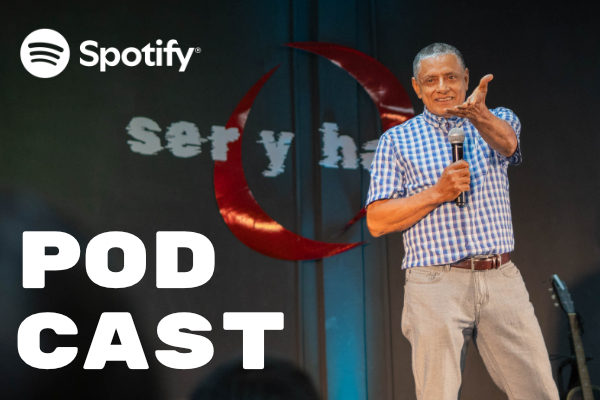
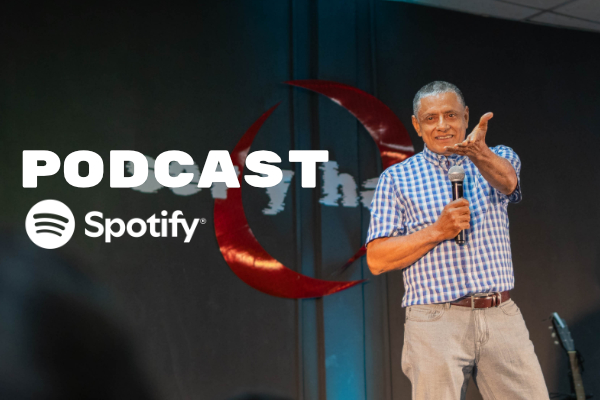
Correcciones y mejoras
# Animaciones
- Agregué fondos animados para la sección del header y del calendario.
- Otras correciones menores.

diff --git a/main.html b/main.html
@@ -57,7 +57,7 @@
             width: 100%;
             height: 0;
             overflow: hidden;
-            border-radius: 0.5rem;
+            /* Se eliminó border-radius: 0.5rem; para las esquinas afiladas del calendario incrustado */
         }
 
         .responsive-embed-container iframe {
@@ -82,20 +82,34 @@
         .text-button-shadow {
             text-shadow: 2px 2px 4px rgba(0, 0, 0, 0.7); /* Sombra más oscura y con blur */
         }
+
+        /* Estilos para el fondo de patrón animado */
+        .animated-pattern-bg {
+            /* SVG del icono de tu logo como patrón de fondo */
+            /* Apuntando al archivo SVG local, el efecto de "ladrillo" debe estar contenido en el SVG si es deseado */
+            background-image: url("images/pattern-logo.svg");
+            background-repeat: repeat;
+            background-size: 100px 100px; /* Tamaño más grande para la repetición del patrón, como se solicitó */
+            animation: movePattern 30s linear infinite; /* Animación de movimiento con una duración más lenta */
+        }
+
+        @keyframes movePattern {
+            0% {
+                background-position: 0 0;
+            }
+            100% {
+                background-position: 100px 100px; /* Mueve el patrón por el tamaño de la unidad del patrón para un loop diagonal perfecto */
+            }
+        }
     </style>
 </head>
 <body class="flex flex-col min-h-screen">
-    <!-- Contenedor principal del contenido -->
     <div id="main-content-wrapper" class="w-full transition-all duration-300 ease-in-out">
         <main class="flex-grow pt-0">
-            <!-- Sección Principal (Hero Section) -->
-            <section class="relative bg-gray-200 py-8 md:py-16">
+            <section class="relative bg-gray-200 py-8 md:py-16 animated-pattern-bg">
                 <div class="container mx-auto px-4 flex justify-center">
-                    <!-- Contenedor principal con borde blanco -->
                     <div class="bg-white rounded-lg shadow-xl overflow-hidden max-w-4xl w-full border-4 border-white">
-                        <!-- Contenedor de la Imagen de Fondo, Logo, Degradado, Botones y Texto "Amarás la diferencia" -->
                         <div class="relative w-full pb-[70%] md:pb-[39.0625%] overflow-hidden">
-                            <!-- Carrusel de Imágenes -->
                             <div id="carousel-images" class="absolute inset-0">
                                 <img src="images\header_fondo_1.jpg" class="carousel-image active absolute inset-0 w-full h-full object-cover" alt="Imagen 1 del Carrusel">
                                 <img src="images\header_fondo_2.jpg" class="carousel-image absolute inset-0 w-full h-full object-cover" alt="Imagen 2 del Carrusel">
@@ -103,27 +117,21 @@
                                 <img src="images\header_fondo_4.jpg" class="carousel-image absolute inset-0 w-full h-full object-cover" alt="Imagen 4 del Carrusel">
                             </div>
 
-                            <!-- Overlay de degradado sobre la imagen -->
                             <div class="absolute inset-0 bg-gradient-to-t from-[#424044] to-transparent"></div>
 
-                            <!-- Logo de IGC Comayagua con fondo blanco y cuadrado, con padding interno y pegado a la esquina -->
-                            <div class="absolute top-0 left-4 bg-white flex items-center justify-center p-4" style="width: 150px; height: 150px;">
+                            <div class="absolute top-0 left-4 bg-white flex items-center justify-center p-4 w-24 h-24 md:w-[150px] md:h-[150px]">
                                 <img src="images\logo1.svg" alt="Logo de IGC Comayagua" class="w-full h-full object-contain">
                             </div>
 
-                            <!-- Contenedor para los botones de navegación, en vertical pegados a la derecha -->
-                            <!-- Añadido z-index para asegurar que los botones estén por encima de otros elementos -->
                             <div class="absolute top-1/2 -translate-y-1/2 right-4 text-white flex flex-col items-end gap-2 md:gap-4 z-10">
-                                <!-- Estos botones tienen fondo negro al 10% de opacidad Y sombra en el texto -->
                                 <a href="#primeros-pasos" class="border border-white text-white rounded-lg hover:bg-white hover:text-gray-900 transition-colors duration-200 text-sm px-3 py-2 md:text-base md:px-6 md:py-2 shadow-md text-button-shadow bg-black bg-opacity-10">Primeros Pasos</a>
                                 <a href="#conferencias" class="border border-white text-white rounded-lg hover:bg-white hover:text-gray-900 transition-colors duration-200 text-sm px-3 py-2 md:text-base md:px-6 md:py-2 shadow-md text-button-shadow bg-black bg-opacity-10">Conferencias</a>
                                 <a href="#recursos" class="border border-white text-white rounded-lg hover:bg-white hover:text-gray-900 transition-colors duration-200 text-sm px-3 py-2 md:text-base md:px-6 md:py-2 shadow-md text-button-shadow bg-black bg-opacity-10">Recursos</a>
                                 <a href="#calendario" class="border border-white text-white rounded-lg hover:bg-white hover:text-gray-900 transition-colors duration-200 text-sm px-3 py-2 md:text-base md:px-6 md:py-2 shadow-md text-button-shadow bg-black bg-opacity-10">Calendario</a>
                             </div>
 
-                            <!-- Contenedor de Texto "Amarás la diferencia" - ahora dentro del área de la imagen, alineado a la izquierda -->
                             <div class="absolute bottom-4 left-4 w-full text-white pr-8 text-left">
-                                <h2 class="text-3xl md:text-5xl font-extrabold hero-main-heading-font leading-tight drop-shadow-lg">
+                                <h2 class="text-2xl md:text-5xl font-extrabold hero-main-heading-font leading-tight drop-shadow-lg">
                                     Amarás la<br>Diferencia
                                 </h2>
                             </div>
@@ -132,80 +140,65 @@
                 </div>
             </section>
 
-            <!-- Sección Primeros Pasos -->
             <section id="primeros-pasos" class="py-16 bg-white">
                 <div class="container mx-auto px-4 text-center max-w-5xl">
                     <h3 class="text-4xl font-bold text-gray-800 mb-12 section-title-font">Da tus primeros pasos</h3>
                     <div class="grid grid-cols-1 md:grid-cols-3 gap-8">
-                        <!-- Tarjeta 1: Soy Nuevo Aquí -->
                         <div class="p-6 bg-blue-50 rounded-lg shadow-lg flex flex-col items-center text-center border-4 border-white">
                             <i class="fas fa-church text-blue-600 text-5xl mb-4"></i>
                             <h4 class="text-2xl font-semibold text-gray-800 mb-3">Soy Nuevo Aquí</h4>
                             <p class="text-gray-600 mb-4">Descubre qué esperar en tu primera visita y cómo puedes conectar con nosotros.</p>
-                            <!-- Botón sin fondo negro transparente ni sombra en el texto -->
-                            <a href="#" class="text-blue-600 hover:underline font-medium">Más información &rarr;</a>
+                            <a href="#" class="text-blue-600 hover:underline font-medium">Más información →</a>
                         </div>
-                        <!-- Tarjeta 2: Encuentra un Grupo de Crecimiento -->
                         <div class="p-6 bg-green-50 rounded-lg shadow-lg flex flex-col items-center text-center border-4 border-white">
                             <i class="fas fa-handshake text-green-600 text-5xl mb-4"></i>
                             <h4 class="text-2xl font-semibold text-gray-800 mb-3">Encuentra un Grupo de Crecimiento</h4>
                             <p class="text-gray-600 mb-4">Encuentra una comunidad donde puedas crecer en tu fe y formar amistades.</p>
-                            <!-- Botón sin fondo negro transparente ni sombra en el texto -->
-                            <a href="https://forms.gle/2pQe1TpR1u5W111K7" class="text-blue-600 hover:underline font-medium">Encuentra un Grupo &rarr;</a>
+                            <a href="https://forms.gle/2pQe1TpR1u5W111K7" class="text-blue-600 hover:underline font-medium">Encuentra un Grupo →</a>
                         </div>
-                        <!-- Tarjeta 3: Lucas 10 -->
                         <div class="p-6 bg-purple-50 rounded-lg shadow-lg flex flex-col items-center text-center border-4 border-white">
                             <i class="fas fa-hand-holding-heart text-purple-600 text-5xl mb-4"></i>
                             <h4 class="text-2xl font-semibold text-gray-800 mb-3">Lucas 10</h4>
                             <p class="text-gray-600 mb-4">Ministerio de ayuda para personas en necesidad.</p>
-                            <!-- Botón sin fondo negro transparente ni sombra en el texto -->
-                            <a href="#" class="text-blue-600 hover:underline font-medium">Conoce Más &rarr;</a>
+                            <a href="#" class="text-blue-600 hover:underline font-medium">Conoce Más →</a>
                         </div>
                     </div>
                 </div>
             </section>
 
-            <!-- Sección de Conferencias -->
             <section id="conferencias" class="py-16 bg-gray-100">
                 <div class="container mx-auto px-4 max-w-5xl">
                     <h3 class="text-4xl font-bold text-gray-800 text-center mb-12 section-title-font">Conferencias</h3>
                     <div class="grid grid-cols-1 md:grid-cols-2 lg:grid-cols-3 gap-8">
-                        <!-- Último Video de YouTube (requiere API Key para automatización real) -->
                         <div class="bg-white rounded-lg shadow-lg overflow-hidden transition duration-300 hover:shadow-xl border-4 border-white">
-                            <!-- Container for the video thumbnail -->
-                            <div id="latest-video-thumbnail-container" class="w-full h-48 bg-gray-200 flex items-center justify-center text-gray-500">
-                                <!-- Placeholder or dynamically loaded image -->
-                                <img id="latest-youtube-thumbnail" src="https://placehold.co/400x300/F0F4F8/334155?text=Cargando+Video..." alt="Miniatura del último video de YouTube" class="w-full h-full object-cover">
+                            <div id="latest-video-thumbnail-container" class="w-full h-48 relative overflow-hidden flex items-center justify-center">
+                                <div id="latest-video-blurred-bg" class="absolute inset-0 bg-cover bg-center" style="filter: blur(8px);"></div>
+                                <img id="latest-youtube-thumbnail" src="https://placehold.co/400x300/F0F4F8/334155?text=Cargando+Video..." alt="Miniatura del último video de YouTube" class="relative z-10 w-full h-full object-cover">
                             </div>
                             <div class="p-6">
                                 <h4 id="latest-video-title" class="text-2xl font-semibold text-gray-800 mb-2">Cargando último video...</h4>
                                 <p class="text-gray-600 text-sm mb-3" id="latest-video-date">Fecha: </p>
                                 <p class="text-gray-700 leading-relaxed mb-4" id="latest-video-description">Obteniendo el video más reciente del canal de YouTube.</p>
-                                <!-- Link to watch on YouTube -->
                                 <a id="latest-video-youtube-link" href="https://www.youtube.com/@igccomayagua" target="_blank" class="border border-red-600 text-red-600 py-2 px-6 rounded-lg hover:bg-red-600 hover:text-white transition-colors duration-200 shadow-md">Ver en YouTube</a>
                             </div>
                         </div>
 
-                        <!-- Conferencia Vertical 2025 -->
                         <div class="bg-white rounded-lg shadow-lg overflow-hidden transition duration-300 hover:shadow-xl border-4 border-white">
                             <img src="images\confe_vertical.jpg" alt="Imagen de Conferencia Vertical 2025" class="w-full h-48 object-cover">
                             <div class="p-6">
                                 <h4 class="text-2xl font-semibold text-gray-800 mb-2">Vertical 2025</h4>
                                 <p class="text-gray-600 text-sm mb-3">Abril 16-18, 2025. SPS Honduras</p>
                                 <p class="text-gray-700 leading-relaxed mb-4">Repasa los temas de nuestra conferencia anual de iglesias Gran Comisión.</p>
-                                <!-- Botón con el nuevo color #666cb1 -->
                                 <a href="https://youtube.com/playlist?list=PLtRnyoc4hKzELEUujB0Fp_JEyg7cUAfkk&si=lNaaDhqNAEoD01oR" target="_blank" class="border border-[#666cb1] text-[#666cb1] py-2 px-6 rounded-lg hover:bg-[#666cb1] hover:text-white transition-colors duration-200 shadow-md">Ver en YouTube</a>
                             </div>
                         </div>
 
-                        <!-- Serie de Conferencias del mes -->
                         <div class="bg-white rounded-lg shadow-lg overflow-hidden transition duration-300 hover:shadow-xl border-4 border-white">
                             <img src="images\confe_serie.jpg" alt="Imagen de Serie Bíblica" class="w-full h-48 object-cover">
                             <div class="p-6">
                                 <h4 class="text-2xl font-semibold text-gray-800 mb-2">Serie: "Entre dos mundos"</h4>
                                 <p class="text-gray-600 text-sm mb-3">Última serie de predicaciones.</p>
                                 <p class="text-gray-700 leading-relaxed mb-4">Exploremos el contraste de ideologías, y como la Biblia se puede aplicar en un mundo actual.</p>
-                                <!-- Botón sin fondo negro transparente ni sombra en el texto -->
                                 <a href="https://youtube.com/playlist?list=PL_DxCRJmU3Si7sQUMwqbzoL__t0u12CcF&si=Ge9U1BnWBJbQ3nlP" target="_blank" class="border border-blue-600 text-blue-600 py-2 px-6 rounded-lg hover:bg-blue-600 hover:text-white transition-colors duration-200 shadow-md">Ver Serie Completa</a>
                             </div>
                         </div>
@@ -218,35 +211,31 @@
                 </div>
             </section>
 
-            <!-- Sección de Recursos -->
             <section id="recursos" class="py-16 bg-white">
                 <div class="container mx-auto px-4 max-w-5xl">
                     <h3 class="text-4xl font-bold text-gray-800 text-center mb-12 section-title-font">Recursos para ti</h3>
                     <div class="grid grid-cols-1 md:grid-cols-2 lg:grid-cols-3 gap-8">
-                        <div class="bg-gray-50 rounded-lg shadow-lg overflow-hidden transition duration-300 hover:shadow-xl border-4 border-white">
+                        <div class="p-6 bg-gray-50 rounded-lg shadow-lg overflow-hidden transition duration-300 hover:shadow-xl border-4 border-white">
                             <img src="images\recursos_podcast.jpg" alt="Image of Spotify Podcast" class="w-full h-48 object-cover">
                             <div class="p-6">
                                 <h4 class="text-2xl font-semibold text-gray-800 mb-2">Conferencias en Spotify</h4>
                                 <p class="text-gray-700 leading-relaxed mb-4">Escucha nuestras predicaciones y mensajes directamente en Spotify.</p>
-                                <!-- Botón sin fondo negro transparente ni sombra en el texto -->
                                 <a href="https://open.spotify.com/show/0ist1nXGrP3fI7Hw3CmH6t?si=f07f7bc0178a4409" target="_blank" class="border border-green-600 text-green-600 py-2 px-6 rounded-lg hover:bg-green-600 hover:text-white transition-colors duration-200 shadow-md">Escuchar en Spotify</a>
                             </div>
                         </div>
-                        <div class="bg-gray-50 rounded-lg shadow-lg overflow-hidden transition duration-300 hover:shadow-xl border-4 border-white">
+                        <div class="p-6 bg-gray-50 rounded-lg shadow-lg overflow-hidden transition duration-300 hover:shadow-xl border-4 border-white">
                             <img src="images\recursos_discipulado.jpg" alt="Image of Discipleship Lessons" class="w-full h-48 object-cover">
                             <div class="p-6">
                                 <h4 class="text-2xl font-semibold text-gray-800 mb-2">Lecciones de Discipulado</h4>
                                 <p class="text-gray-700 leading-relaxed mb-4">Guías detalladas para tu crecimiento y desarrollo espiritual.</p>
-                            <!-- Botón "Descargar Lecciones" con color #b54400 -->
-                            <a href="https://drive.google.com/drive/folders/195n8G1thwng7q9-jdQFx4yzeIqpLhrOH?usp=sharing" target="_blank" class="border border-[#b54400] text-[#b54400] py-2 px-6 rounded-lg hover:bg-[#b54400] hover:text-white transition-colors duration-200 shadow-md">Descargar Lecciones</a>
+                                <a href="https://drive.google.com/drive/folders/195n8G1thwng7q9-jdQFx4yzeIqpLhrOH?usp=sharing" target="_blank" class="border border-[#b54400] text-[#b54400] py-2 px-6 rounded-lg hover:bg-[#b54400] hover:text-white transition-colors duration-200 shadow-md">Descargar Lecciones</a>
                             </div>
                         </div>
-                        <div class="bg-gray-50 rounded-lg shadow-lg overflow-hidden transition duration-300 hover:hover:shadow-xl border-4 border-white">
+                        <div class="p-6 bg-gray-50 rounded-lg shadow-lg overflow-hidden transition duration-300 hover:hover:shadow-xl border-4 border-white">
                             <img src="images\recursos_evangelismo.jpg" alt="Image of Evangelism Manual" class="w-full h-48 object-cover">
                             <div class="p-6">
                                 <h4 class="text-2xl font-semibold text-gray-800 mb-2">Manual de Evangelismo</h4>
                                 <p class="text-gray-700 leading-relaxed mb-4">Herramientas prácticas para compartir el evangelio y servir a tu comunidad.</p>
-                                <!-- Botón "Descargar Manual" con color #0059b5 -->
                                 <a href="https://drive.google.com/drive/folders/1X79rBpLzgLRS4o81b8NLO1gOEm3HbEDk?usp=sharing" target="_blank" class="border border-[#0059b5] text-[#0059b5] py-2 px-6 rounded-lg hover:bg-[#0059b5] hover:text-white transition-colors duration-200 shadow-md">Descargar Manual</a>
                             </div>
                         </div>
@@ -254,146 +243,8 @@
                 </div>
             </section>
 
-            <!-- Sección de Calendario -->
-            <section id="calendario" class="py-16 bg-gray-100">
+            <section id="calendario" class="py-16 bg-gray-100 animated-pattern-bg">
                 <div class="container mx-auto px-4 max-w-5xl">
                     <h3 class="text-4xl font-bold text-gray-800 text-center mb-12 hero-heading-font">Nuestro Calendario de Eventos</h3>
-                    <div class="bg-white rounded-lg shadow-lg p-8 border-4 border-white">
-                        <div class="responsive-embed-container" style="padding-bottom: 700px; sm:padding-bottom: 75%; md:padding-bottom: 56.25%;"> <!-- Ajustado para la altura del móvil -->
-                            <!-- Google Calendar Embed en modo Agenda -->
-                            <iframe src="https://calendar.google.com/calendar/embed?src=6a192295baa35bc8e37bc65dd6ea2e548ebc9c466b9a7ffecc0bb3f81b60fdd4%40group.calendar.google.com&ctz=America%2FTegucigalpa" style="border:solid 1px #777" frameborder="0" scrolling="no"></iframe>
-                        </div>
-                    </div>
-                </div>
-            </section>
-        </main>
-    </div> <!-- Fin del contenedor principal del contenido -->
-
-    <!-- Sección del Pie de Página -->
-    <footer class="bg-[#424044] text-white py-12">
-        <div class="container mx-auto px-4 grid grid-cols-1 md:grid-cols-3 gap-8 text-center md:text-left">
-            <div>
-                <!-- Marcador de posición para el logo cuadrado -->
-                <img src="images\logo2.svg" alt="Logo de Gran Comisión Comayagua" class="mx-auto md:mx-0 mb-4 rounded-md" width="150" height="100">
-                <h4 class="text-xl font-bold mb-4 text-white">Gran Comisión Comayagua</h4>
-                <p class="text-gray-400 text-sm">Cámara de Comercio, Salida a La Libertad, Comayagua.</p>
-                <p class="text-400 text-sm">igccomayagua@gmail.com</p>
-                <p class="text-gray-400 text-sm">+504 9989-2913</p>
-            </div>
-            <div>
-                <h4 class="text-xl font-bold mb-4 text-white">Enlaces Rápidos</h4>
-                <ul class="space-y-2">
-                    <li><a href="#primeros-pasos" class="text-gray-400 hover:text-white transition duration-300">Primeros Pasos</a></li>
-                    <li><a href="#conferencias" class="text-gray-400 hover:text-white transition duration-300">Conferencias</a></li>
-                    <li><a href="#recursos" class="text-gray-400 hover:text-white transition duration-300">Recursos</a></li>
-                    <li><a href="#calendario" class="text-gray-400 hover:text-white transition duration-300">Calendario</a></li>
-                </ul>
-            </div>
-            <div>
-                <h4 class="text-xl font-bold mb-4 text-white">Síguenos</h4>
-                <div class="flex justify-center md:justify-start space-x-4">
-                    <!-- Íconos de Redes Sociales (Font Awesome) -->
-                    <a href="https://www.facebook.com/igccomayagua" target="_blank" class="text-gray-300 hover:text-blue-300 transition duration-300"><i class="fab fa-facebook-f fa-2x"></i></a>
-                    <a href="https://www.instagram.com/igccomayagua" target="_blank" class="text-gray-300 hover:text-pink-300 transition duration-300"><i class="fab fa-instagram fa-2x"></i></a>
-                    <a href="https://www.youtube.com/@igccomayagua" target="_blank" class="text-gray-300 hover:text-red-300 transition duration-300"><i class="fab fa-youtube fa-2x"></i></a>
-                    <a href="https://open.spotify.com/show/0ist1nXGrP3fI7Hw3CmH6t?si=f07f7bc0178a4409" target="_blank" class="text-gray-300 hover:text-green-300 transition duration-300"><i class="fab fa-spotify fa-2x"></i></a>
-                </div>
-            </div>
-        </div>
-        <div class="mt-8 text-center text-gray-500 text-sm">
-            <p>&copy; 2025 Iglesia Gran Comisión Comayagua. All rights reserved.</p>
-            <p class="mt-2">
-                <a href="#" class="text-blue-400 hover:text-blue-200 transition duration-300">Privacy Policy</a> |
-                <a href="#" class="text-blue-400 hover:text-blue-200 transition duration-300">Terms of Service</a>
-            </p>
-        </div>
-    </footer>
-    <script>
-        // Smooth scrolling for navigation links
-        document.querySelectorAll('a[href^="#"]').forEach(anchor => {
-            anchor.addEventListener('click', function (e) {
-                e.preventDefault();
-                const targetId = this.getAttribute('href').substring(1); // Obtiene el ID sin el '#'
-                const targetElement = document.getElementById(targetId);
-                if (targetElement) {
-                    targetElement.scrollIntoView({
-                        behavior: 'smooth'
-                    });
-                }
-            });
-        });
-
-        // Script para el Carrusel
-        const carouselImages = document.querySelectorAll('#carousel-images .carousel-image');
-        let currentImageIndex = 0;
-
-        function showImage(index) {
-            // Oculta todas las imágenes
-            carouselImages.forEach(img => img.classList.remove('active'));
-            // Muestra la imagen actual
-            carouselImages[index].classList.add('active');
-        }
-
-        function nextImage() {
-            currentImageIndex = (currentImageIndex + 1) % carouselImages.length;
-            showImage(currentImageIndex);
-        }
-
-        // Inicializa el carrusel mostrando la primera imagen
-        if (carouselImages.length > 0) {
-            showImage(currentImageIndex);
-        }
-
-        // Inicia el ciclo automático del carrusel
-        setInterval(nextImage, 5000); // Cambia de imagen cada 5 segundos
-
-        // Script para obtener el último video de YouTube
-        async function fetchLatestYouTubeVideo() {
-            // Replace with your YouTube channel ID
-            const channelId = 'UCBGcMqENptfdY3p34QQSeQw'; // Example: Replace with actual channel ID for IGC Comayagua
-            const apiKey = 'AIzaSyBh57ErTIJOah8bfq76pwTQiE7Bi1J_gwc'; // Canvas will automatically provide this at runtime
-
-            // YouTube Data API v3 endpoint for searching channel videos
-            const apiUrl = `https://www.googleapis.com/youtube/v3/search?key=${apiKey}&channelId=${channelId}&part=snippet,id&order=date&maxResults=1&type=video`;
-
-            try {
-                const response = await fetch(apiUrl);
-                const data = await response.json();
-
-                if (data.items && data.items.length > 0) {
-                    const latestVideo = data.items[0];
-                    const videoId = latestVideo.id.videoId;
-                    const videoTitle = latestVideo.snippet.title;
-                    const videoDescription = latestVideo.snippet.description;
-                    const publishedAt = new Date(latestVideo.snippet.publishedAt).toLocaleDateString('es-ES', {
-                        year: 'numeric',
-                        month: 'long',
-                        day: 'numeric'
-                    });
-                    const thumbnailUrl = latestVideo.snippet.thumbnails.high.url; // 'high' for better quality
-
-                    // Update the HTML elements
-                    document.getElementById('latest-youtube-thumbnail').src = thumbnailUrl;
-                    document.getElementById('latest-video-title').textContent = videoTitle;
-                    document.getElementById('latest-video-date').textContent = `Fecha: ${publishedAt}`;
-                    document.getElementById('latest-video-description').textContent = videoDescription;
-                    document.getElementById('latest-video-youtube-link').href = `https://www.youtube.com/watch?v=${videoId}`;
-                } else {
-                    console.log('No se encontraron videos recientes.');
-                    document.getElementById('latest-video-title').textContent = 'No hay videos recientes disponibles.';
-                    document.getElementById('latest-video-description').textContent = 'Por favor, intente de nuevo más tarde.';
-                    document.getElementById('latest-youtube-thumbnail').src = 'https://placehold.co/400x300/F0F4F8/334155?text=Video+No+Encontrado';
-                }
-            } catch (error) {
-                console.error('Error al obtener el último video de YouTube:', error);
-                document.getElementById('latest-video-title').textContent = 'Error al cargar el video.';
-                document.getElementById('latest-video-description').textContent = 'Verifique su conexión o intente más tarde.';
-                document.getElementById('latest-youtube-thumbnail').src = 'https://placehold.co/400x300/F0F4F8/334155?text=Error+de+Carga';
-            }
-        }
-
-        // Call the function when the window loads
-        window.onload = fetchLatestYouTubeVideo;
-    </script>
-</body>
-</html>
+                    <div class="bg-white shadow-lg p-6 border-2 border-white rounded-lg">
+                        <div class="responsive-embed-container" style="padding-bottom: 700px; sm:padding-bottom: 75%; md:padding-bottom: 56.25%;"> <iframe sr
